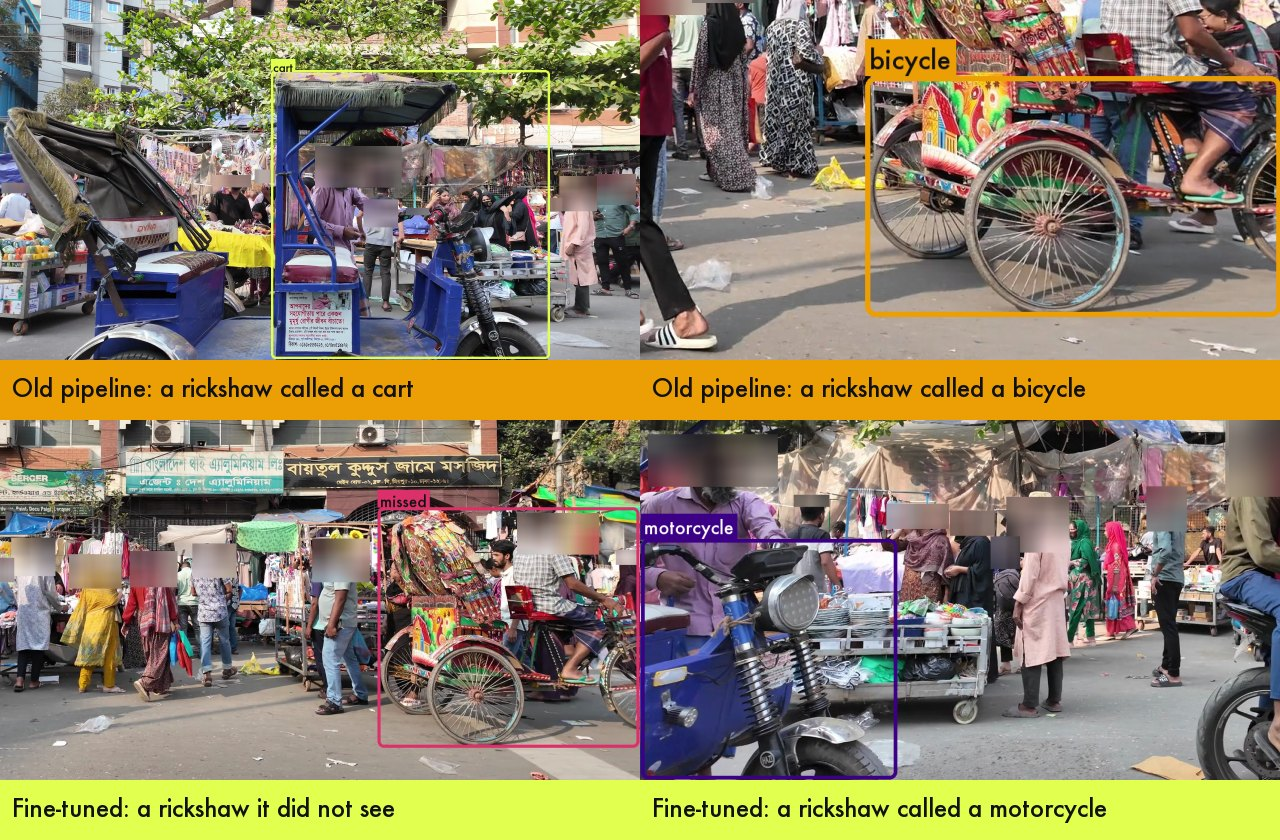
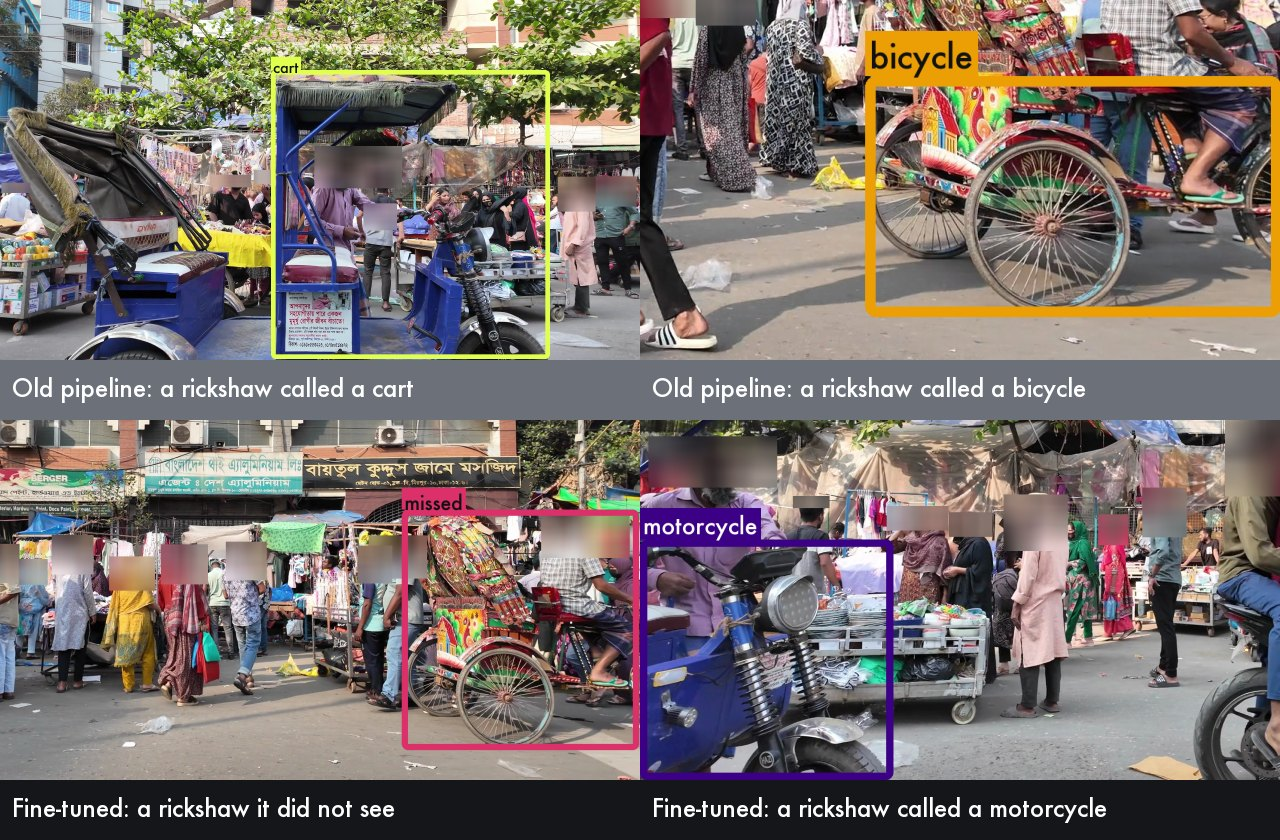
Visual refresh: thicker boxes, bigger labels, cyan people, neutral headers; remade all pictures and GIFs

diff --git a/scripts/make_figures.py b/scripts/make_figures.py
@@ -16,7 +16,7 @@ ap.add_argument("--font", default=os.environ.get("FONT_PATH", "/System/Library/F
 args = ap.parse_args()
 
 NAMES = {2: "bicycle", 3: "motorcycle", 4: "rickshaw", 5: "cart"}
-HEX = {1: "#3777ff", 2: "#EC9F05", 3: "#3B0086", 4: "#db3069", 5: "#e0ff4f", 6: "#8a8f98"}
+HEX = {1: "#2de1fc", 2: "#EC9F05", 3: "#3B0086", 4: "#db3069", 5: "#e0ff4f", 6: "#8a8f98", 7: "#8B5E3C"}   # person cyan (brightest, so people pop most), truck brown
 rgb = lambda h: tuple(int(h[i:i + 2], 16) for i in (1, 3, 5))
 FONT = lambda n: ImageFont.truetype(args.font, n)
 OUT = ROOT / "media"
@@ -90,17 +90,16 @@ def draw(img_bgr, items, size=22, width=11):
         tb = dr.textbbox((0, 0), text, font=f); tw, th = tb[2] - tb[0] + 12, tb[3] - tb[1] + 10
         ty = max(0, y1 - th)
         dr.rectangle([x1, ty, x1 + tw, ty + th], fill=col)
-        dr.text((x1 + 6, ty + 3), text, font=f, fill=(255, 255, 255) if cat == 3 else (17, 17, 17))
+        dr.text((x1 + 6, ty + 3), text, font=f, fill=(255, 255, 255) if cat in (3, 7) else (17, 17, 17))
     return cv2.cvtColor(np.array(pil), cv2.COLOR_RGB2BGR)
 
 
-# Frame colors are the two palette colors used least in the pictures, so they never compete with the boxes people see most.
-# Boxes in the two test clips: bicycle 13, cart 49, motorcycle 79, rickshaw 202, person 1034.
-ORIG_HEX, AFTER_HEX = "#EC9F05", "#e0ff4f"   # original pipeline = bicycle amber, after fine-tuning = cart yellow-green
+# Frame and tab colors are neutral grays, not class colors, so a tab never looks like a bicycle, cart or rickshaw box.
+ORIG_HEX, AFTER_HEX = "#6b7079", "#14161a"   # original pipeline = mid gray, after fine-tuning = near black
 
 
 def panel(img_bgr, text, hex_color):
-    """Thin colored frame and colored label tab, no white margin, so busy pictures can be told apart at a glance."""
+    """Thin frame and label tab in a neutral color, no white margin, so busy pictures can be told apart at a glance."""
     col = rgb(hex_color)
     h, w = img_bgr.shape[:2]
     b = max(4, w // 200)
@@ -108,14 +107,14 @@ def panel(img_bgr, text, hex_color):
     pil = Image.fromarray(cv2.cvtColor(framed, cv2.COLOR_BGR2RGB)); dr = ImageDraw.Draw(pil); f = FONT(max(16, w // 22))
     tb = dr.textbbox((0, 0), text, font=f)
     dr.rectangle([b, b, b + tb[2] + 24, b + tb[3] + 20], fill=col)
-    dr.text((b + 12, b + 8), text, font=f, fill=(17, 17, 17))     # both colors are light, so the text is dark
+    dr.text((b + 12, b + 8), text, font=f, fill=(255, 255, 255))   # white text on the dark tabs
     return cv2.cvtColor(np.array(pil), cv2.COLOR_RGB2BGR)
 
 
 def render(iid, source, w):
     img = read_blurred(f"{args.images}/{files[iid]}")
     items = [(c, b, NAMES[c]) for c, b, s in source.get(iid, [])]
-    big = draw(img, items, size=34, width=11)
+    big = draw(img, items, size=44, width=18)
     return cv2.resize(big, (w, int(big.shape[0] * w / big.shape[1])), interpolation=cv2.INTER_AREA)
 
 
@@ -168,13 +167,13 @@ tiles = []
 
 def tile(iid, cat, box, label, caption, hex_color):
     img = read_blurred(f"{args.images}/{files[iid]}")
-    img = draw(img, [(cat, box, label)], size=34, width=7)
+    img = draw(img, [(cat, box, label)], size=44, width=14)
     x1, y1, x2, y2 = box; cx, cy = (x1 + x2) / 2, (y1 + y2) / 2
     w = max(x2 - x1, (y2 - y1) * 16 / 9) * 1.5; h = w * 9 / 16
     x0 = int(min(max(cx - w / 2, 0), max(0, img.shape[1] - w))); y0 = int(min(max(cy - h / 2, 0), max(0, img.shape[0] - h)))
     crop = cv2.resize(img[y0:y0 + int(h), x0:x0 + int(w)], (640, 360), interpolation=cv2.INTER_AREA)
     pil = Image.fromarray(cv2.cvtColor(crop, cv2.COLOR_BGR2RGB)); canvas = Image.new("RGB", (640, 420), rgb(hex_color))
-    canvas.paste(pil, (0, 0)); ImageDraw.Draw(canvas).text((12, 372), caption, font=FONT(24), fill=(17, 17, 17))
+    canvas.paste(pil, (0, 0)); ImageDraw.Draw(canvas).text((12, 372), caption, font=FONT(24), fill=(255, 255, 255))
     tiles.append(np.array(canvas))
 
 

diff --git a/scripts/detect3.py b/scripts/detect3.py
@@ -15,7 +15,7 @@ FONT_SIZE = 18  # every piece of text in the video (labels and credit box) uses 
 SLOW = 0.75  # playback speed, 1.0 = real time
 
 CLASSES = ["person", "bicycle", "motorcycle", "rickshaw", "cart", "car"]  # same order the model was trained with
-COLORS = ["#3777ff", "#EC9F05", "#3B0086", "#db3069", "#e0ff4f", "#8a8f98"]  # person blue, bicycle amber, motorcycle deep purple, rickshaw raspberry, cart neon yellow-green, car gray
+COLORS = ["#2de1fc", "#EC9F05", "#3B0086", "#db3069", "#e0ff4f", "#8a8f98", "#8B5E3C"]  # person cyan (brightest, so people pop most), bicycle amber, motorcycle deep purple, rickshaw raspberry, cart neon yellow-green, car gray, truck brown
 palette = sv.ColorPalette.from_hex(COLORS)
 LOOKUP = sv.ColorLookup.CLASS
 
@@ -26,7 +26,7 @@ model = RFDETRSmall(pretrain_weights=WEIGHTS)
 
 tracker = sv.ByteTrack(frame_rate=int(rate), lost_track_buffer=45, minimum_consecutive_frames=3)
 smoother = sv.DetectionsSmoother(length=7)
-boxes = sv.RoundBoxAnnotator(color=palette, color_lookup=LOOKUP, thickness=2, roundness=0.25)
+boxes = sv.RoundBoxAnnotator(color=palette, color_lookup=LOOKUP, thickness=4, roundness=0.25)
 label = sv.RichLabelAnnotator(color=palette, color_lookup=LOOKUP, text_color=sv.Color.from_hex("#111111"),
                               font_path=FONT_PATH, font_size=FONT_SIZE, text_padding=6)
 label_light = sv.RichLabelAnnotator(color=palette, color_lookup=LOOKUP, text_color=sv.Color.WHITE,
@@ -87,7 +87,7 @@ for i, frame in enumerate(sv.get_video_frames_generator(SRC, stride=STRIDE)):
                          head_boxes(heads_src.xyxy, info.width, info.height)])
     out = blur.annotate(frame.copy(), sv.Detections(xyxy=hb)) if len(hb) else frame.copy()
     out = boxes.annotate(out, d)
-    dark = d.class_id != 2  # motorcycle labels (class 2) get white text, everything else dark text
+    dark = ~np.isin(d.class_id, (2, 6))  # motorcycle (2) and truck (6) labels get white text, everything else dark text
     out = label.annotate(out, d[dark], [t for t, k in zip(labels, dark) if k])
     if (~dark).any():
         out = label_light.annotate(out, d[~dark], [t for t, k in zip(labels, dark) if not k])

diff --git a/docs/DETAILS.md b/docs/DETAILS.md
@@ -42,7 +42,9 @@ My answer keys started as the original pipeline's own boxes, which I then correc
 
 ## Did the fine-tuned model win anywhere on the Dhaka street?
 
-I looked for frames where it found more rickshaws than the original pipeline. There were only 2, so there is no "where it gained" picture for that test.
+I looked for frames where it found more rickshaws than the original pipeline. With the round 1 models there were only 2, so there was no picture. With the round 2 model (trained on clips 2, 3, 4 and 5) there are enough for three, below. The original pipeline calls the rickshaws carts or bicycles and the fine-tuned model names them. In the top frame the fine-tuned model also calls the bicycle on the left a rickshaw.
+
+![Frames on the Dhaka street where the fine-tuned model found more rickshaws](../media/where_it_wins_dhaka.jpg)
 
 ## What the final model learned from
 
